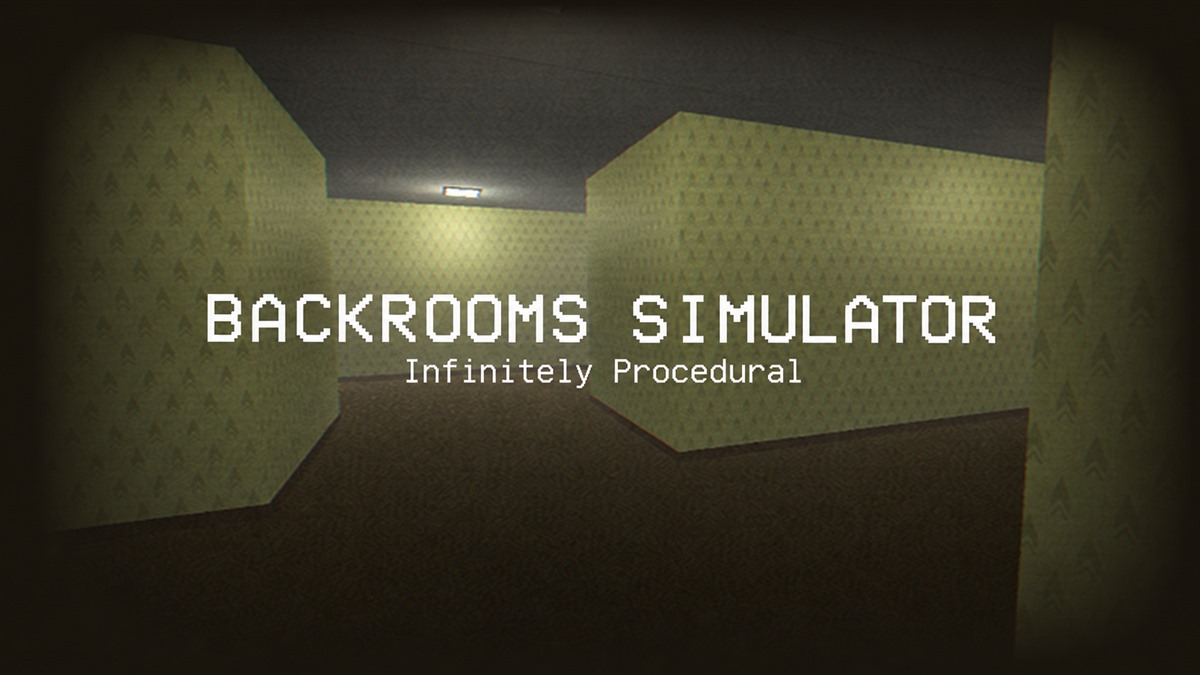
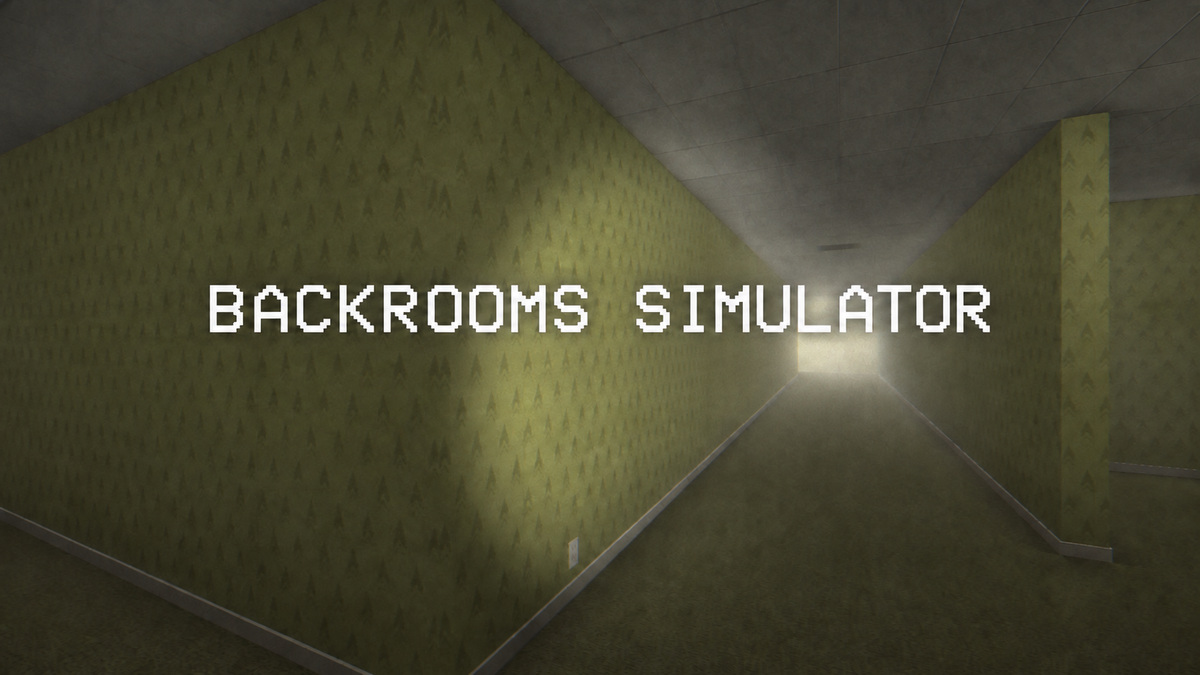
Update backroom sim pictures

diff --git a/backrooms-details.html b/backrooms-details.html
@@ -54,19 +54,23 @@
                 </div>
 
                 <div class="swiper-slide">
-                  <img src="assets/img/portfolio/portfolio-15-2.jpg" alt="">
+                  <img class="img-fluid" src="assets/img/portfolio/backrooms-corridor.jpg" alt="Flashlight illuminating a yellow corridor in Backrooms Simulator" width="1600" height="900" decoding="async">
                 </div>
 
                 <div class="swiper-slide">
-                  <img src="assets/img/portfolio/portfolio-15-1.jpg" alt="">
+                  <img class="img-fluid" src="assets/img/portfolio/backrooms-open-rooms.jpg" alt="Fluorescent-lit open rooms and pillars with the flashlight on" width="1600" height="900" decoding="async">
                 </div>
 
                 <div class="swiper-slide">
-                  <img src="assets/img/portfolio/portfolio-15-3.gif" alt="">
+                  <img class="img-fluid" src="assets/img/portfolio/backrooms-level-fun-room.jpg" alt="Level Fun in progress: party room with a welcome banner, streamers, balloons, and a disco ball, lit by the flashlight" width="1600" height="900" decoding="async">
                 </div>
 
                 <div class="swiper-slide">
-                  <img src="assets/img/portfolio/portfolio-15-4.gif" alt="">
+                  <img class="img-fluid" src="assets/img/portfolio/backrooms-level-fun-cake.jpg" alt="Level Fun in progress: flashlight illuminating a birthday cake, balloons, and presents" width="1600" height="900" decoding="async">
+                </div>
+
+                <div class="swiper-slide">
+                  <img class="img-fluid" src="assets/img/portfolio/backrooms-level-fun-corridor.jpg" alt="Level Fun in progress: colorful corridors with confetti, balloons, and the flashlight on" width="1600" height="900" decoding="async">
                 </div>
 
               </div>

diff --git a/docs/backrooms-imagery.md b/docs/backrooms-imagery.md
@@ -1,0 +1,25 @@
+# Backrooms portfolio imagery
+
+Updated from the current local `threejs-maze` source on September 25, 2026. The gallery contains real Chromium screenshots, including the in-progress Level Fun. All captures use the flashlight, seed 42, Explore mode, 100% resolution, dynamic lights, default VHS effects, no head bob or power cuts, and hidden HUD. No simulator source files were changed.
+
+Files in `assets/img/portfolio/`:
+
+- `backrooms-cover.jpg`: 1200 × 675 cover, using the corridor capture and the existing main title. Subtitle removed.
+- `backrooms-corridor.jpg`: camera (10, 10), yaw 3.6.
+- `backrooms-open-rooms.jpg`: camera (4, 0), yaw 0.
+- `backrooms-level-fun-room.jpg`: camera (0.7, 0.7), yaw 0.25.
+- `backrooms-level-fun-cake.jpg`: camera (-0.8, -0.3), yaw 1.0.
+- `backrooms-level-fun-corridor.jpg`: camera (6, 6), yaw 2.5.
+
+Gallery screenshots are 1600 × 900. Camera coordinates are (x, z); pitch is 0 and yaw is in radians. Level Fun uses `?seed=42&mode=explore&level=fun&debug`. The standard level omits `level=fun`.
+
+The cover was composited with the built-in imagegen tool, then exported as JPEG. The gallery files are direct browser captures. The cover is an edited derivative rather than a pixel-identical screenshot.
+
+Initial cover prompt (inputs: corridor screenshot and previous cover as typography reference):
+
+> Use case: compositing. Asset type: 16:9 portfolio cover. Image 1 is the edit target and new real gameplay screenshot with the flashlight ON. Image 2 is ONLY the reference for the existing title typography. Keep Image 1 as the background: same exact corridor geometry, perspective, wallpaper, carpet, ceiling, illumination including flashlight pool, grain and VHS look. Do not invent, redraw, move or add scene elements. Add the same two centered white text lines from Image 2, matching its pixel monospace lettering, size relative to canvas, spacing and placement. Text (verbatim): "BACKROOMS SIMULATOR" on the first line, "Infinitely Procedural" on the second line. Main title spans about 66% of width, centered at 47% of height; subtitle beneath at 55% of height. Keep all spelling and casing exactly as supplied. Only subtle dark text shadow for readability. No other words, no border, no logo, no new artwork. Output 16:9, 1600x900 or 1536x864. This is only replacement of the old background with the supplied new screenshot while preserving the title treatment.
+
+Final edit prompt (input: first cover result):
+
+> Use case: precise-object-edit. Edit this Backrooms Simulator portfolio cover. Remove the entire subtitle "Infinitely Procedural" below the main title, restoring the corridor wallpaper and distant light behind it. Keep the main title "BACKROOMS SIMULATOR" exactly unchanged: same letters, white pixel monospace font, size and current position. Keep the rest of the screenshot background exactly unchanged, including corridor geometry, flashlight illumination, wallpaper, carpet, ceiling and overall color. No other text. Do not move the main title. Output same 16:9 composition.
+
